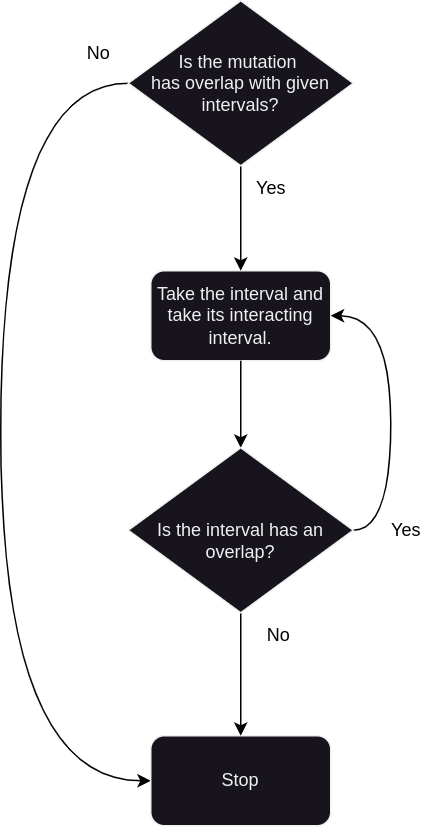
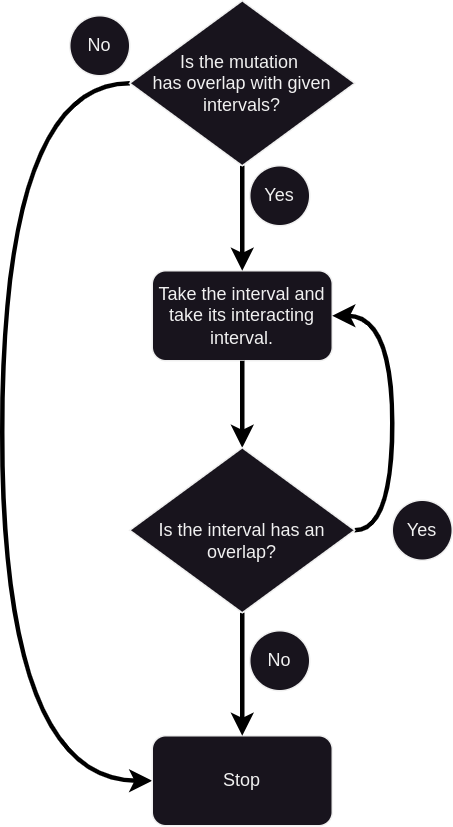
updating figures and README.md for better quality

diff --git a/README.md b/README.md
@@ -32,7 +32,9 @@ metadata --
 
 ### Step 2: flowchart
 
-![image](img/flowchart.png)
+<p align="center">
+  <img src="img/flowchart.png" />
+</p>
 
 ## Result file columns
 
